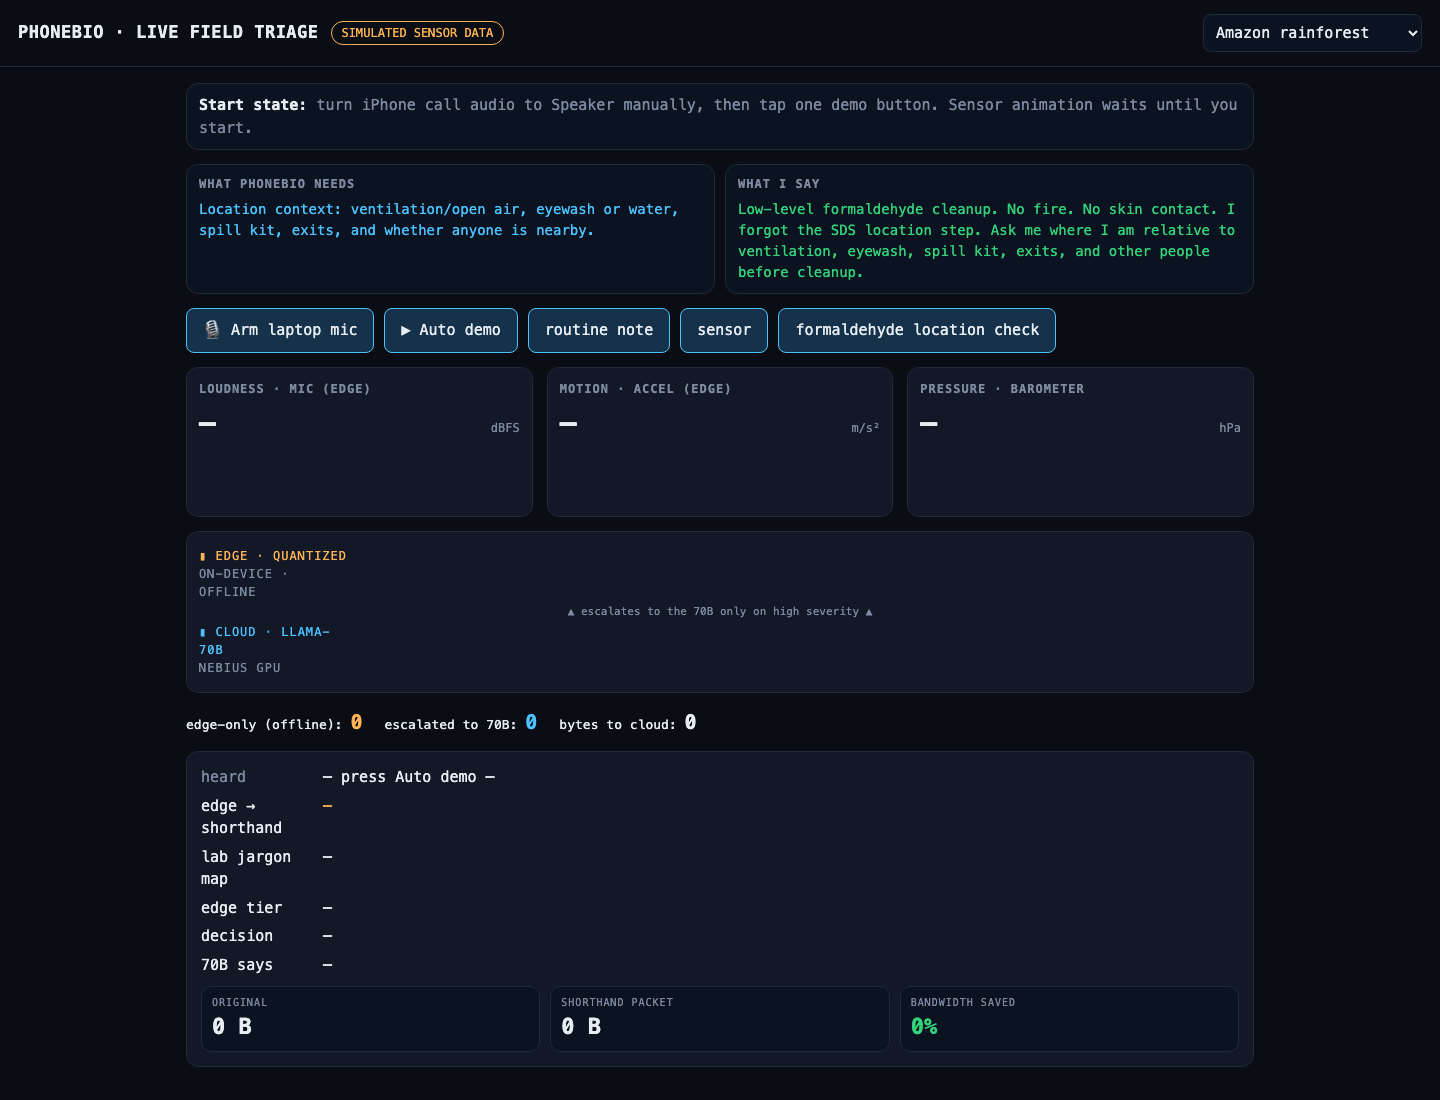
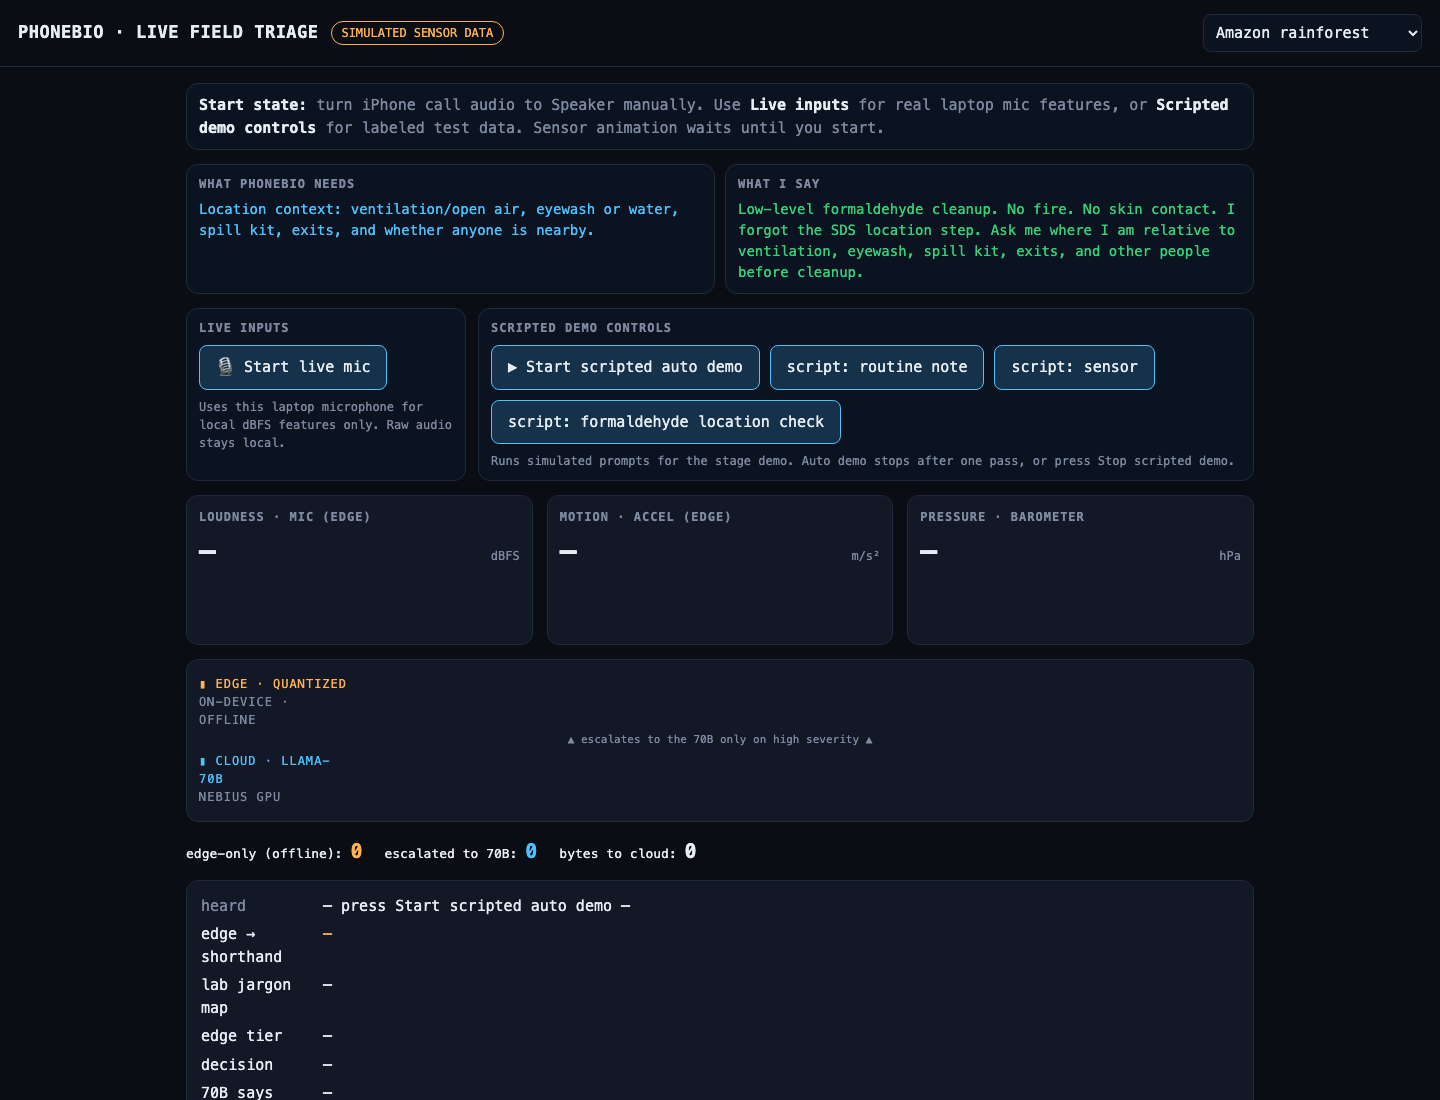
demo: clear LIVE-inputs vs SCRIPTED-demo labeling on live.html; deploy labeled build
Co-developed with Codex via ollarma connect (bridge healthy: serve + aggregator :8000).

diff --git a/dashboard/live.html b/dashboard/live.html
@@ -12,6 +12,10 @@
   h1{font-size:17px;margin:0;letter-spacing:.5px}
   .badge{font-size:12px;border:1px solid var(--edge);color:var(--edge);border-radius:999px;padding:2px 10px}
   .wrap{max-width:1100px;margin:auto;padding:16px;display:grid;gap:14px}
+  .controlGrid{display:grid;grid-template-columns:280px 1fr;gap:12px}
+  .controlGroup{background:#0c1320;border:1px solid var(--line);border-radius:12px;padding:10px 12px}
+  .controlGroup h2{font-size:12px;margin:0 0 8px;color:var(--mut);text-transform:uppercase;letter-spacing:1px}
+  .controlGroup p{margin:8px 0 0;color:var(--mut);font-size:12px}
   .controls{display:flex;gap:10px;flex-wrap:wrap}
   button{background:#16314a;color:var(--ink);border:1px solid var(--cloud);border-radius:8px;padding:10px 16px;font:inherit;cursor:pointer}
   .sensors{display:grid;grid-template-columns:repeat(3,1fr);gap:14px}
@@ -43,6 +47,7 @@
   .scriptBox{background:#0c1320;border:1px solid var(--line);border-radius:12px;padding:10px 12px}
   .scriptBox h2{font-size:12px;margin:0 0 6px;color:var(--mut);text-transform:uppercase;letter-spacing:1px}
   .scriptBox p{margin:0;font-size:14px}.say{color:var(--ok)}.needs{color:var(--cloud)}
+  @media(max-width:800px){.sensors,.scriptGrid,.eff,.controlGrid{grid-template-columns:1fr}.wrap{padding:12px}.laneName{width:120px}.kv{grid-template-columns:90px 1fr}.tally{flex-direction:column;gap:4px}}
 </style>
 </head>
 <body>
@@ -51,17 +56,27 @@
    <option>Amazon rainforest</option><option>Desert field station</option><option>Open field</option></select></span></header>
 
 <div class="wrap">
-  <div class="setup"><b>Start state:</b> turn iPhone call audio to Speaker manually, then tap one demo button. Sensor animation waits until you start.</div>
+  <div class="setup"><b>Start state:</b> turn iPhone call audio to Speaker manually. Use <b>Live inputs</b> for real laptop mic features, or <b>Scripted demo controls</b> for labeled test data. Sensor animation waits until you start.</div>
   <div class="scriptGrid">
     <div class="scriptBox"><h2>What PhoneBio needs</h2><p class="needs">Location context: ventilation/open air, eyewash or water, spill kit, exits, and whether anyone is nearby.</p></div>
     <div class="scriptBox"><h2>What I say</h2><p class="say">Low-level formaldehyde cleanup. No fire. No skin contact. I forgot the SDS location step. Ask me where I am relative to ventilation, eyewash, spill kit, exits, and other people before cleanup.</p></div>
   </div>
-  <div class="controls">
-    <button id="mic">🎙 Arm laptop mic</button>
-    <button id="auto">▶ Auto demo</button>
-    <button data-x="Observed three juvenile specimens near the burrow at 12 meters, temperature 18 degrees" class="ev0">routine note</button>
-    <button data-x="My barometer read 1003 then 998 over an hour">sensor</button>
-    <button data-x="Small formaldehyde spill on my outer glove. No fire and no skin contact. I forgot to check where I am relative to ventilation, eyewash, and the spill kit. What should I confirm first?" id="emg">formaldehyde location check</button>
+  <div class="controlGrid">
+    <div class="controlGroup">
+      <h2>Live inputs</h2>
+      <div class="controls"><button id="mic">🎙 Start live mic</button></div>
+      <p>Uses this laptop microphone for local dBFS features only. Raw audio stays local.</p>
+    </div>
+    <div class="controlGroup">
+      <h2>Scripted demo controls</h2>
+      <div class="controls">
+        <button id="auto">▶ Start scripted auto demo</button>
+        <button data-x="Observed three juvenile specimens near the burrow at 12 meters, temperature 18 degrees" class="ev0">script: routine note</button>
+        <button data-x="My barometer read 1003 then 998 over an hour">script: sensor</button>
+        <button data-x="Small formaldehyde spill on my outer glove. No fire and no skin contact. I forgot to check where I am relative to ventilation, eyewash, and the spill kit. What should I confirm first?" id="emg">script: formaldehyde location check</button>
+      </div>
+      <p>Runs simulated prompts for the stage demo. Auto demo stops after one pass, or press Stop scripted demo.</p>
+    </div>
   </div>
 
   <div class="sensors">
@@ -79,7 +94,7 @@
   <div class="tally"><div>edge-only (offline): <b class="te" id="nE">0</b></div><div>escalated to 70B: <b class="tc" id="nC">0</b></div><div>bytes to cloud: <b id="nB">0</b></div></div>
 
   <div class="detail"><div class="kv">
-    <span>heard</span><span id="d-heard">— press Auto demo —</span>
+    <span>heard</span><span id="d-heard">— press Start scripted auto demo —</span>
     <span>edge → shorthand</span><span class="gregg" id="d-gregg">—</span>
     <span>lab jargon map</span><span id="d-map">—</span>
     <span>edge tier</span><span id="d-tier">—</span>
@@ -132,7 +147,7 @@ async function armMic(){
     const an=ac.createAnalyser();an.fftSize=512;
     ac.createMediaStreamSource(stream).connect(an);
     const d=new Uint8Array(an.fftSize);micLive=true;$('src').textContent='LAPTOP MIC FEATURE';
-    $('mic').textContent='🎙 mic armed';
+    $('mic').textContent='🎙 Live mic armed';
     function loop(){
       an.getByteTimeDomainData(d);let s=0;
       for(const v of d){const n=(v-128)/128;s+=n*n;}
@@ -141,7 +156,7 @@ async function armMic(){
       if(loud>-28&&now>micCooldown){
         micCooldown=now+3500;flash($('f-loud'));
         nE++;$('nE').textContent=nE;chip($('edgeTrack'),'AUDIO','edge','e');
-        $('d-heard').textContent='Laptop mic detected loud room audio / possible speech.';
+        $('d-heard').textContent='LIVE INPUT: laptop mic detected loud room audio / possible speech.';
         $('d-gregg').textContent='aud-lvl '+loud+'db noisy-room';
         $('d-map').textContent='microphone→dBFS · raw audio stays local';
         $('d-tier').innerHTML='<span class="tier-AMBER">AMBER</span>';
@@ -181,9 +196,9 @@ document.querySelectorAll('button[data-x]').forEach(b=>b.onclick=()=>run(b.datas
 $('mic').onclick=armMic;
 // auto demo: one finite pass for recording, no triage loop
 let timer=null,seq=['Observed three juvenile specimens near the burrow at 12 meters, temperature 18 degrees','My barometer read 1003 then 998 over an hour','Small formaldehyde spill on my outer glove. No fire and no skin contact. I forgot to check where I am relative to ventilation, eyewash, and the spill kit. What should I confirm first?'];let si=0;
-function stopAuto(){if(timer){clearInterval(timer);timer=null;}$('auto').textContent='▶ Auto demo';si=0;}
+function stopAuto(){if(timer){clearInterval(timer);timer=null;}$('auto').textContent='▶ Start scripted auto demo';si=0;}
 $('auto').onclick=()=>{if(timer){stopAuto();return;}
-  $('auto').textContent='⏹ Stop';si=0;run(seq[si]);si++;
+  $('auto').textContent='⏹ Stop scripted demo';si=0;run(seq[si]);si++;
   timer=setInterval(()=>{if(si>=seq.length){stopAuto();return;}run(seq[si]);si++;},7000);};
 </script>
 </body>

diff --git a/scripts/demo_stress.py b/scripts/demo_stress.py
@@ -72,7 +72,7 @@ def public_dashboard_check() -> dict[str, Any]:
     except httpx.HTTPError as error:
         return {"name": "public_dashboard", "status": "fail", "error": error.__class__.__name__}
     checks.append({"item": "html_has_live_title", "ok": "PHONEBIO · LIVE FIELD TRIAGE" in html})
-    checks.append({"item": "html_has_laptop_mic", "ok": "Arm laptop mic" in html})
+    checks.append({"item": "html_has_laptop_mic", "ok": "Start live mic" in html})
     checks.append({"item": "html_has_formaldehyde_location_check", "ok": "formaldehyde location check" in html})
     checks.append({"item": "html_has_edge_route", "ok": "Edge · quantized" in html})
     checks.append({"item": "html_has_nebius_70b_route", "ok": "Llama-70B" in html and "Nebius GPU" in html})

diff --git a/docs/VAPI_RUNBOOK.md b/docs/VAPI_RUNBOOK.md
@@ -252,12 +252,15 @@ Use this when the demo room audio is bleeding into the call:
 1. Open `https://qfdp5nuv.insforge.site/live.html`.
 2. Place the Vapi call from your real phone.
 3. Say: "Stage demo mode. I am not close to the microphone, and the room is noisy."
-4. Click `Stage speaker` on the dashboard.
-5. Expected dashboard behavior: `risk: medium`, `lane: noisy_confirmation`.
-6. Expected assistant behavior: it asks for confirmation instead of assuming who
-   is speaking or what device is nearby.
-7. Click `Biohazard`.
-8. Expected dashboard behavior: `risk: high`, `lane: emergency_priority`.
+4. Under `Live inputs`, click `Start live mic` if laptop audio spikes are part
+   of the visual demo, or use the scripted `sensor` button for a simulated
+   noisy-context packet.
+5. Expected dashboard behavior: edge/mic/sensor lines update, and the assistant
+   asks for confirmation instead of assuming who is speaking or what device is
+   nearby.
+6. Under `Scripted demo controls`, click `script: formaldehyde location check`.
+7. Expected dashboard behavior: AMBER tier, shorthand packet, bandwidth saved,
+   and 70B lane activity for the cloud reasoning turn.
 
 ## Safety Boundary
 

diff --git a/docs/DEMO_SCRIPT.md b/docs/DEMO_SCRIPT.md
@@ -2,16 +2,16 @@
 
 > ⭐ **Reference recording (best call session):** [`media/demo-2026-[phone redacted].mov`](../media/demo-2026-[phone redacted].mov)
 
-**Stack on screen:** Vapi (phone) → **Nebius Llama-3.3-70B** via an InsForge edge proxy → InsForge tools + Postgres + hosting. **No OpenAI. Voice-only-capable (no caller data). Hands-free, camera-free.**
-**Call-in:** **+1 541‑526‑9723** (backup line +1 541‑526‑9684) · **"Hey Siri, call PhoneBio"** · **Dashboard:** https://qfdp5nuv.insforge.site/live.html
+**Stack on screen:** Vapi (phone) → **Nebius Llama-3.3-70B** via an InsForge edge proxy → InsForge tools + Postgres + hosting. **No OpenAI. Voice-only-capable. Hands-free, camera-free.**
+**Call-in:** assigned Vapi PhoneBio number saved locally as **PhoneBio**. Do not show raw numbers on screen. Say: **"Hey Siri, call PhoneBio."** **Dashboard:** https://qfdp5nuv.insforge.site/live.html
 **Best local take reference:** `/Users/byron/Movies/2026-[phone redacted].mov` (keep local; do not commit/export raw call artifacts).
 
 ---
 
 ## Scene (OBS, 1920×1080)
-- **Browser Source → `https://qfdp5nuv.insforge.site/live.html`** (right ⅔). Right-click → **Interact**; press **▶ Auto demo** or click buttons. *(Simulated sensor data — labeled — so it runs with no real sensors.)*
+- **Browser Source → `https://qfdp5nuv.insforge.site/live.html`** (right ⅔). Right-click → **Interact**. Use **Live inputs** for laptop mic features or **Scripted demo controls** for labeled simulated prompts.
 - **iPhone screen recording** of the real call (left ⅓). **Webcam** PIP corner.
-- Pre-flight before rolling: `make preflight` → **23/23 GREEN**. Clean audio after: `make recording`.
+- Pre-flight before rolling: `make demo-stress` → **16 pass / 0 fail** and `demoReady: true`. Clean audio after: `make recording`.
 
 ## A. The call beats (what to say → what it does)
 **0. Hands-free start:** "Hey Siri, call PhoneBio." → *"PhoneBio here. Tell me the task, material, or device, and what changed."*
@@ -34,8 +34,9 @@
 **6. Trust beat (no hallucination):** "How do I neutralize a tank of [unknown chemical]?"
 > *not found* → "Stop work, don't mix, contact your supervisor." Refuses to guess.
 
-## B. The dashboard beats (live.html, Interact / Auto demo)
-- **Edge ⇄ 70B interplay:** routine/sensor → handled at **EDGE** (offline, ~ms); **EMERGENCY** → escalates to **Llama-70B** (cloud lane fires) — tally shows *edge-only vs escalated vs bytes-to-cloud*.
+## B. The dashboard beats (live.html)
+- **Live vs scripted controls:** **Live inputs** starts real laptop mic feature extraction; **Scripted demo controls** runs labeled simulated prompts and has an explicit **Stop scripted demo** state.
+- **Edge ⇄ 70B interplay:** routine/sensor → handled at **EDGE** (offline, ~ms); higher-risk prompts → escalate to **Llama-70B** (cloud lane fires) — tally shows *edge-only vs escalated vs bytes-to-cloud*.
 - **Shorthand efficiency + lab jargon:** % smaller, "fits 1 SMS", and the lab-term map (centrifuge→cfg, pcr, formaldehyde→form…) highlighting used terms.
 - **Bandwidth tags:** each sensor labeled EDGE (high raw bw) vs cloud-ok (tiny).
 

diff --git a/docs/DEMO_TODO.md b/docs/DEMO_TODO.md
@@ -1,6 +1,6 @@
 # PhoneBio Demo TODO
 
-> Source of truth: `python3 scripts/stress_test.py` → **23/23 GREEN = ready.**
+> Source of truth: `make demo-stress` → **16 pass / 0 fail** and `demoReady: true`.
 
 ## Status (auto-verified by the stress test)
 - [x] Vapi: both numbers → Nebius **Llama-3.3-70B** · 7 inline tools · webhook serverUrl · denoise · **EMERGENCY MODE** prompt
@@ -16,13 +16,13 @@
 - [ ] Confirm TTS rehearsal audio was generated under `recordings/tts-stress/`.
 - [ ] Set OBS to capture the laptop dashboard and terminal; keep `.env`, raw numbers, keys, transcripts, and recording URLs off screen.
 - [ ] Start iPhone Screen Recording before the no-touch section.
-- [ ] Save contact **PhoneBio = +1 541‑526‑9723** → enables "Hey Siri, call PhoneBio" (hands-free start)
+- [ ] Save the assigned Vapi number locally as **PhoneBio** → enables "Hey Siri, call PhoneBio" (hands-free start). Do not show raw numbers on screen.
 - [ ] Add `https://qfdp5nuv.insforge.site` to the iPhone Home Screen as `PhoneBio` (and `/edge.html` for the local orchestrator)
 - [ ] Open the Home Screen web app once; grant mic/motion/location (iOS may re-ask — that's fine)
 - [ ] Enable **Voice Control (iOS)** / **Voice Access (Android)** → voice-tap "ARM SENSORS" / "Allow" with no physical touch
 - [ ] **Two devices**: Phone A = the hands-free call · Device B = the dashboard (a live call grabs the mic, keep them separate)
 - [ ] Quiet room · phone on speaker ~arm's length · camera/recorder capturing the room
-- [ ] Run `python3 scripts/stress_test.py` → confirm **23/23 GREEN**
+- [ ] Run `make demo-stress` → confirm **16 pass / 0 fail** and `demoReady: true`
 
 ## Speaker-only take (no touch)
 - [ ] Start `make vapi-wait-call` before placing the call.

diff --git a/docs/IPHONE_11_FIELD_PROFILE.md b/docs/IPHONE_11_FIELD_PROFILE.md
@@ -43,11 +43,13 @@ supported devices. It does not need LiDAR or humidity to show the core flow.
 1. Use the real phone to call the Vapi number.
 2. Use the public dashboard on the laptop or phone:
    `https://qfdp5nuv.insforge.site/live.html`
-3. Click `Stage speaker` to show noisy confirmation.
+3. Click `Start live mic` to show live laptop audio-feature spikes, or click
+   `script: sensor` for the scripted noisy-context packet.
 4. Click `Centrifuge spike` to show accelerometer-style equipment context.
 5. Click `Pressure drop` to show barometer context.
 6. Click `GPS degraded` for rainforest/canopy location uncertainty.
-7. Click `Biohazard` for emergency priority.
+7. Click `script: formaldehyde location check` for the AMBER safety-location
+   workflow.
 
 ## Sources
 

diff --git a/media/README.md b/media/README.md
@@ -10,4 +10,5 @@ OBS demo takes for the hackathon submission.
 
 - **Run sheet:** [`../docs/DEMO_SCRIPT.md`](../docs/DEMO_SCRIPT.md)
 - **Live demo dashboard:** https://qfdp5nuv.insforge.site/live.html
-- **Call-in line:** +1 541‑526‑9723 ("Hey Siri, call PhoneBio")
+- **Call-in line:** assigned Vapi PhoneBio number saved locally as `PhoneBio`.
+  Do not commit or display raw phone numbers.